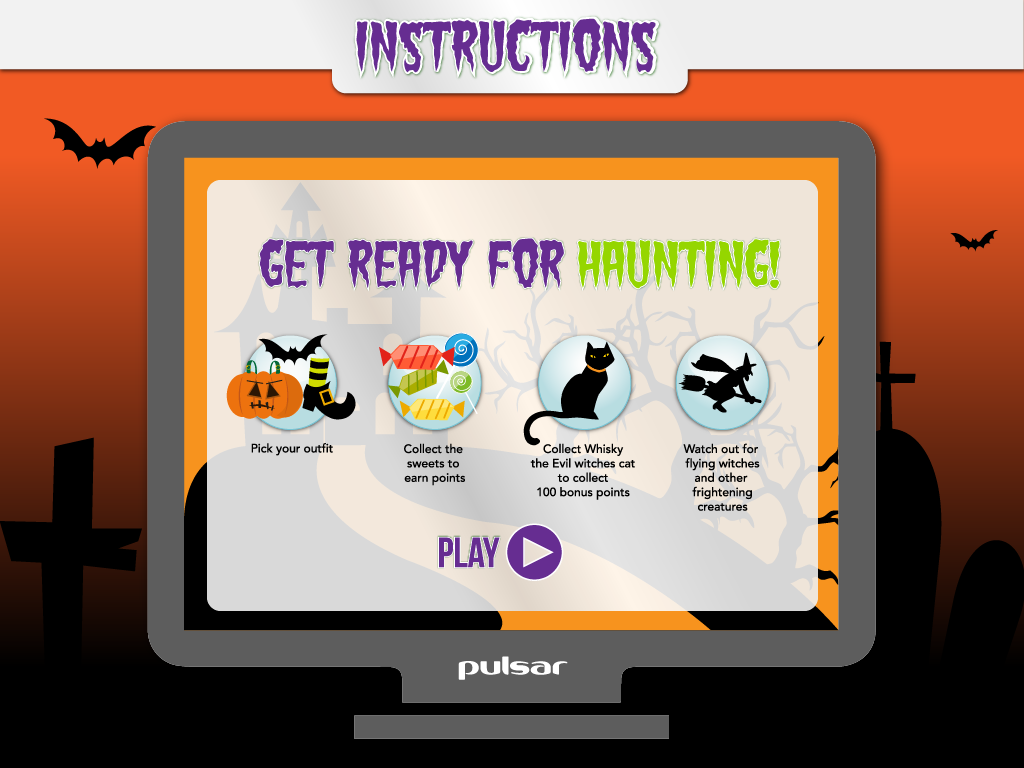
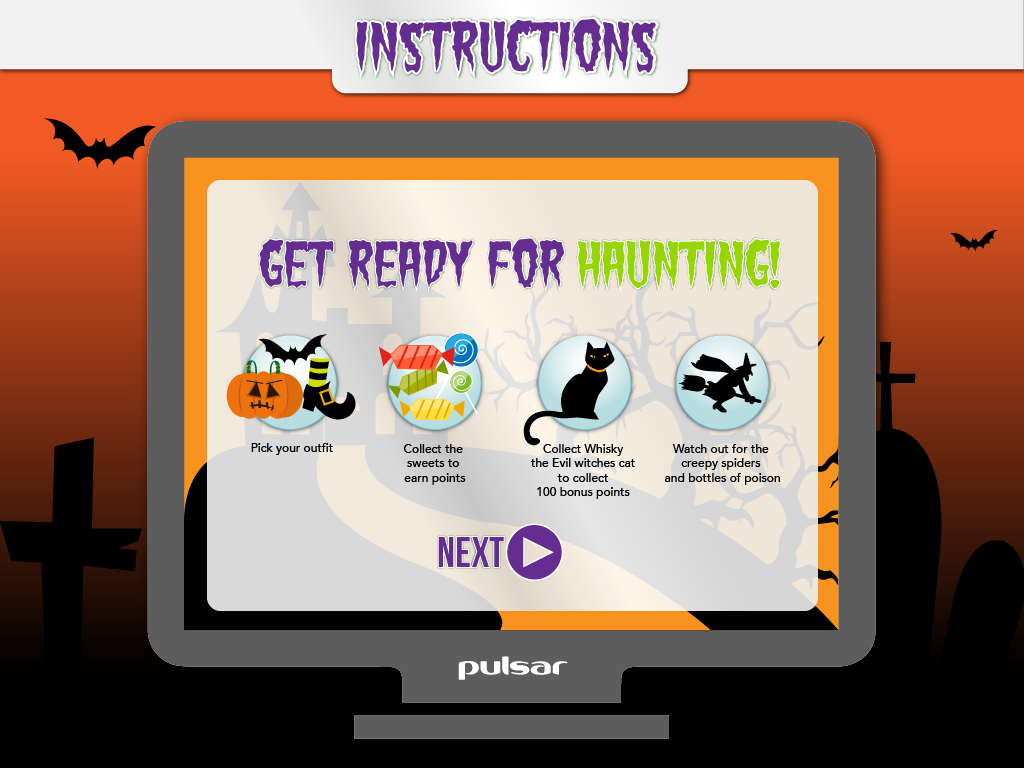
ajax changes

diff --git a/index.html b/index.html
@@ -26,26 +26,22 @@
                          userLastName = $('#lastname').val();
                          userEmail = $('#email').val();
                          $('#landing-page').hide();
-                         $('#enter_name').show()
+                         $('#select_character').show()
                       }
                     })
-                    $('#enter_name button').on('click', function() {
-                        if($('#enter_name input').val() === ''){
-                        alert('Please enter a name');
-                        } else {
-                        charName = $('#enter_name input').val();
-                        $('#enter_name').hide();
-                        $('#select_character').show()
-                        }
-                    })
+               
 
                     $('#select_character button').on('click', function() {
                         character = $(this).data('char');
                         $('#select_character').hide();
                         $('#instructions').show();
                     })
-
                     $('#instructions button').on('click', function() {
+                        $('#instructions').hide();
+                        $('#instructions_2').show();
+                    })
+
+                    $('#instructions_2 button').on('click', function() {
                         window.location = 'game.html?char='+character+'&fname='+userFirstName+'&lname='+userLastName+'&email='+userEmail+'&nick='+charName;
                     })
                 })
@@ -68,17 +64,17 @@
         <div id="landing-page-terms">
             <a id="closeterms" href="javascript:hideTerms()">&nbsp;</a>
         </div>
-        <div class="screen" id="enter_name">
-            <input/>
-            <button/>
-        </div>
+      
         <div class="screen" id="select_character">
             <button data-char="pumpkin"/>
             <button data-char="witch"/>
             <button data-char="vampire"/>
         </div>
         <div class="screen" id="instructions">
-            <button>
+            <button/>
+        </div>
+          <div class="screen" id="instructions_2">
+           <button/>
         </div>
     </body>
 </html>

diff --git a/css/styles.css b/css/styles.css
@@ -219,6 +219,20 @@ display:none;
 
 }
 
+#instructions_2 {
+background:url(/img/bg_instructions_2.png);
+display:none;
+}
+
+#instructions_2 button {
+	width:170px;
+	height:100px;
+	top:500px;
+	left:400px;
+	position: absolute;
+
+}
+
 #leader-board{
 	background-image : url('/img/bg_leaderboard.png');
 	height:768px;
